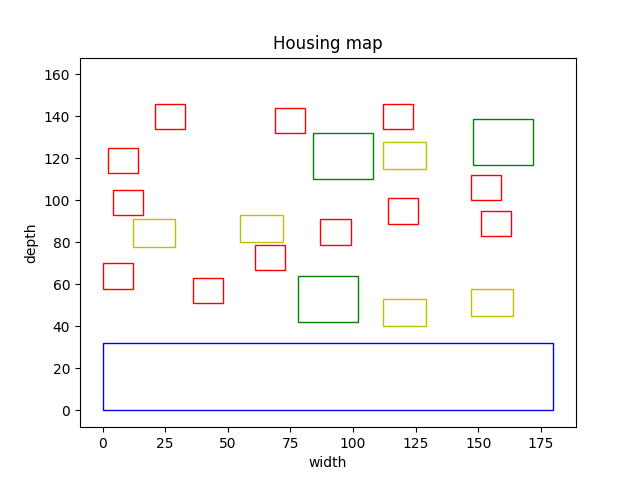
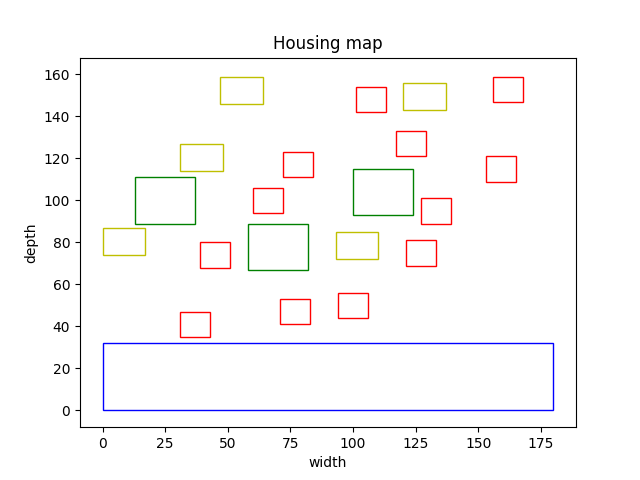
first try with price function

diff --git a/project_code/classes/land.py b/project_code/classes/land.py
@@ -1,35 +1,43 @@
 import csv
 from .water import Water
-from .familyhome import Familyhome
-from .bungalow import Bungalow
-from .maison import Maison
 from .house import House
 from project_code.algorithms.randomise import randomise_coordinates
 from shapely.geometry import Polygon
+from shapely.ops import nearest_points
+
 
 class Land():
 
     def __init__(self, source_file, number_houses):
         self.width = 180
         self.depth = 160
-        self.all_coordinates = []
-        self.waters = []
+        # self.all_coordinates = []
+        self.all_land_objects = []
+        # self.waters = []
         self.water = self.load_water(source_file)
-        self.houses = []
+        # self.houses = []
         self.load_houses(number_houses)
+        
 
     def overlap(self, house):
-        for coordinate in self.all_coordinates:
+        new_house = house.polygon
 
-            new_house = Polygon([house.bottom_left, (house.bottom_left[0] + house.width, house.bottom_left[1]), house.top_right, (house.bottom_left[0], house.bottom_left[1] + house.depth)])
-            existing_land = Polygon([coordinate[0], (coordinate[0][0] + coordinate[1][0] - coordinate[0][0], coordinate[0][1]), coordinate[1], (coordinate[0][0], coordinate[0][1] + coordinate[1][1] - coordinate[0][1])])
+        for land_object in self.all_land_objects:
+            if land_object.polygon.intersects(new_house) == True:
+                return True
+
+        # for coordinate in self.all_coordinates:
+
+        #     new_house = Polygon([house.bottom_left, (house.bottom_left[0] + house.width, house.bottom_left[1]), house.top_right, (house.bottom_left[0], house.bottom_left[1] + house.depth)])
+        #     existing_land = Polygon([coordinate[0], (coordinate[0][0] + coordinate[1][0] - coordinate[0][0], coordinate[0][1]), coordinate[1], (coordinate[0][0], coordinate[0][1] + coordinate[1][1] - coordinate[0][1])])
             
 
-            if existing_land.intersects(new_house) == True:
-                return True
+        #     if existing_land.intersects(new_house) == True:
+        #         return True
       
-        self.houses.append(house)
-        self.all_coordinates.append(tuple((house.bottom_left, house.top_right)))
+        # self.houses.append(house)
+        self.all_land_objects.append(house)
+        # self.all_coordinates.append(tuple((house.bottom_left, house.top_right)))
      
         return False
 
@@ -48,20 +56,28 @@ class Land():
                 top_right_tuple = tuple((int(top_right.split(',')[0]), int(top_right.split(',')[1])))
                 
                 # making water class
-                water = Water(bottom_left_tuple, top_right_tuple)
-                self.waters.append(water)
-                self.all_coordinates.append(tuple((bottom_left_tuple, top_right_tuple)))
+                # polygon = Polygon([bottom_left_tuple, (top_right_tuple[0] - bottom_left_tuple[0], bottom_left_tuple[1]), top_right_tuple, (bottom_left_tuple[0], top_right_tuple[1] - bottom_left_tuple[1])])
+
+                polygon = Polygon([bottom_left_tuple, (top_right_tuple[0], bottom_left_tuple[1]), top_right_tuple, (bottom_left_tuple[0], top_right_tuple[1])])
+
+                water = Water(bottom_left_tuple, top_right_tuple, polygon)
+
+                # self.waters.append(water)
+                self.all_land_objects.append(water)
+                # self.all_coordinates.append(tuple((bottom_left_tuple, top_right_tuple)))
+
                 
-        return self.waters
+        return self.all_land_objects
 
     def load_houses(self, number_houses):
-        
+
         for i in range(int(0.6 * number_houses)):
             overlap = True
             familyhome = None
             while(overlap):
                 coordinates = randomise_coordinates(12, 12)
-                familyhome = House("familyhome", 12, 12, 285000, coordinates)
+                polygon = Polygon([coordinates, (coordinates[0] + 12, coordinates[1]), (coordinates[0] + 12, coordinates[1] + 12), (coordinates[0], coordinates[1] + 12)])
+                familyhome = House("familyhome", 12, 12, 285000, coordinates, polygon)
                 overlap = self.overlap(familyhome)             
 
         for i in range(int(0.25 * number_houses)):
@@ -69,7 +85,8 @@ class Land():
             bungalow = None
             while (overlap):
                 coordinates = randomise_coordinates(17, 13)
-                bungalow = House("bungalow", 17, 13, 399000, coordinates)
+                polygon = Polygon([coordinates, (coordinates[0] + 17, coordinates[1]), (coordinates[0] + 17, coordinates[1] + 13), (coordinates[0], coordinates[1] + 13)])
+                bungalow = House("bungalow", 17, 13, 399000, coordinates, polygon)
                 overlap = self.overlap(bungalow)
             
         for i in range(int(0.15 * number_houses)):
@@ -77,6 +94,25 @@ class Land():
             maison = None
             while (overlap):
                 coordinates = randomise_coordinates(24, 22)
-                maison = House("maison", 24, 22, 610000, coordinates)
+                polygon = Polygon([coordinates, (coordinates[0] + 24, coordinates[1]), (coordinates[0] + 24, coordinates[1] + 22), (coordinates[0], coordinates[1] + 22)])
+                maison = House("maison", 24, 22, 610000, coordinates, polygon)
                 overlap = self.overlap(maison)
      
+    def calculate_price(self, houses):
+        all_polygons = []
+        alle_tests = []
+
+        for house in houses:
+            if house.name != "water":
+                all_polygons.append(house.polygon)
+       
+        for house in houses:    
+            if house.name != "water": 
+                origin = house.polygon
+                for polygon in all_polygons:
+                    geom1 = origin
+                    geom2 = polygon
+                    test1 = [o.wkt for o in nearest_points(geom1, geom2)]
+                    alle_tests.append(test1)
+        
+        print(len(alle_tests))

diff --git a/project_code/visualisations/visualise.py b/project_code/visualisations/visualise.py
@@ -1,30 +1,34 @@
 import matplotlib.pyplot as plt
 import matplotlib.patches as patches
 
-def visualise(houses, waters):
+def visualise(land_objects):
 
     # Create data
     fig, ax = plt.subplots()
     
-    for house in houses:
-        if house.name == "familyhome":
-            house_rect = patches.Rectangle((house.bottom_left[0], house.bottom_left[1]), 12, 12, linewidth=1, edgecolor='r', facecolor='none')
-            ax.add_patch(house_rect)
+    for land_object in land_objects:
+        if land_object.name == "familyhome":
+            rectangle = patches.Rectangle((land_object.bottom_left[0], land_object.bottom_left[1]), land_object.width, land_object.depth, linewidth=1, edgecolor='r', facecolor='none')
+            ax.add_patch(rectangle)   
             
-        elif house.name == "bungalow":
-            house_rect = patches.Rectangle((house.bottom_left[0], house.bottom_left[1]), 17, 13, linewidth=1, edgecolor='y', facecolor='none')
-            ax.add_patch(house_rect)
+        elif land_object.name == "bungalow":
+            rectangle = patches.Rectangle((land_object.bottom_left[0], land_object.bottom_left[1]), land_object.width, land_object.depth, linewidth=1, edgecolor='y', facecolor='none')
+            ax.add_patch(rectangle)   
+        
+        elif land_object.name == "maison":
+            rectangle = patches.Rectangle((land_object.bottom_left[0], land_object.bottom_left[1]), land_object.width, land_object.depth, linewidth=1, edgecolor='g', facecolor='none')
+            ax.add_patch(rectangle)    
         
         else:
-            house_rect = patches.Rectangle((house.bottom_left[0], house.bottom_left[1]), 24, 22, linewidth=1, edgecolor='g', facecolor='none')
-            ax.add_patch(house_rect)   
+            rectangle = patches.Rectangle((land_object.bottom_left[0], land_object.bottom_left[1]), land_object.width, land_object.depth, linewidth=1, edgecolor='b', facecolor='none')
+            ax.add_patch(rectangle)   
 
-    for water in waters:
-        top_right_x = water.top_right[0] - water.bottom_left[0]
-        top_right_y = water.top_right[1] - water.bottom_left[1]
+    # for water in waters:
+    #     top_right_x = water.top_right[0] - water.bottom_left[0]
+    #     top_right_y = water.top_right[1] - water.bottom_left[1]
         
-        water_rect = patches.Rectangle((water.bottom_left[0], water.bottom_left[1]), top_right_x, top_right_y, linewidth=1, edgecolor='b', facecolor='none')
-        ax.add_patch(water_rect) 
+    #     water_rect = patches.Rectangle((water.bottom_left[0], water.bottom_left[1]), top_right_x, top_right_y, linewidth=1, edgecolor='b', facecolor='none')
+    #     ax.add_patch(water_rect) 
 
     
 

diff --git a/project_code/classes/house.py b/project_code/classes/house.py
@@ -1,9 +1,10 @@
 class House():
 
-    def __init__(self, type_house, width, depth, price, coordinates):
+    def __init__(self, type_house, width, depth, price, coordinates, polygon):
         self.name = type_house
         self.width = width
         self.depth = depth
         self.price = price
         self.bottom_left = coordinates
         self.top_right = tuple((self.bottom_left[0] + self.width, self.bottom_left[1] + self.depth))
+        self.polygon = polygon

diff --git a/project_code/classes/water.py b/project_code/classes/water.py
@@ -1,6 +1,9 @@
 class Water():
 
-    def __init__(self, bottom_left, top_right):
+    def __init__(self, bottom_left, top_right, polygon):
+        self.name = "water"
+        self.width = top_right[0] - bottom_left[0]
+        self.depth = top_right[1] - bottom_left[1]
         self.bottom_left = bottom_left 
         self.top_right = top_right
-    
+        self.polygon = polygon

diff --git a/main.py b/main.py
@@ -21,4 +21,7 @@ if __name__ == "__main__":
 
     #create map
     housing_map = Land(f"data/{wijk_number}.csv", number_of_houses)
-    visualise(housing_map.houses, housing_map.waters)
+    visualise(housing_map.all_land_objects)
+
+    housing_map.calculate_price(housing_map.all_land_objects)
+   
